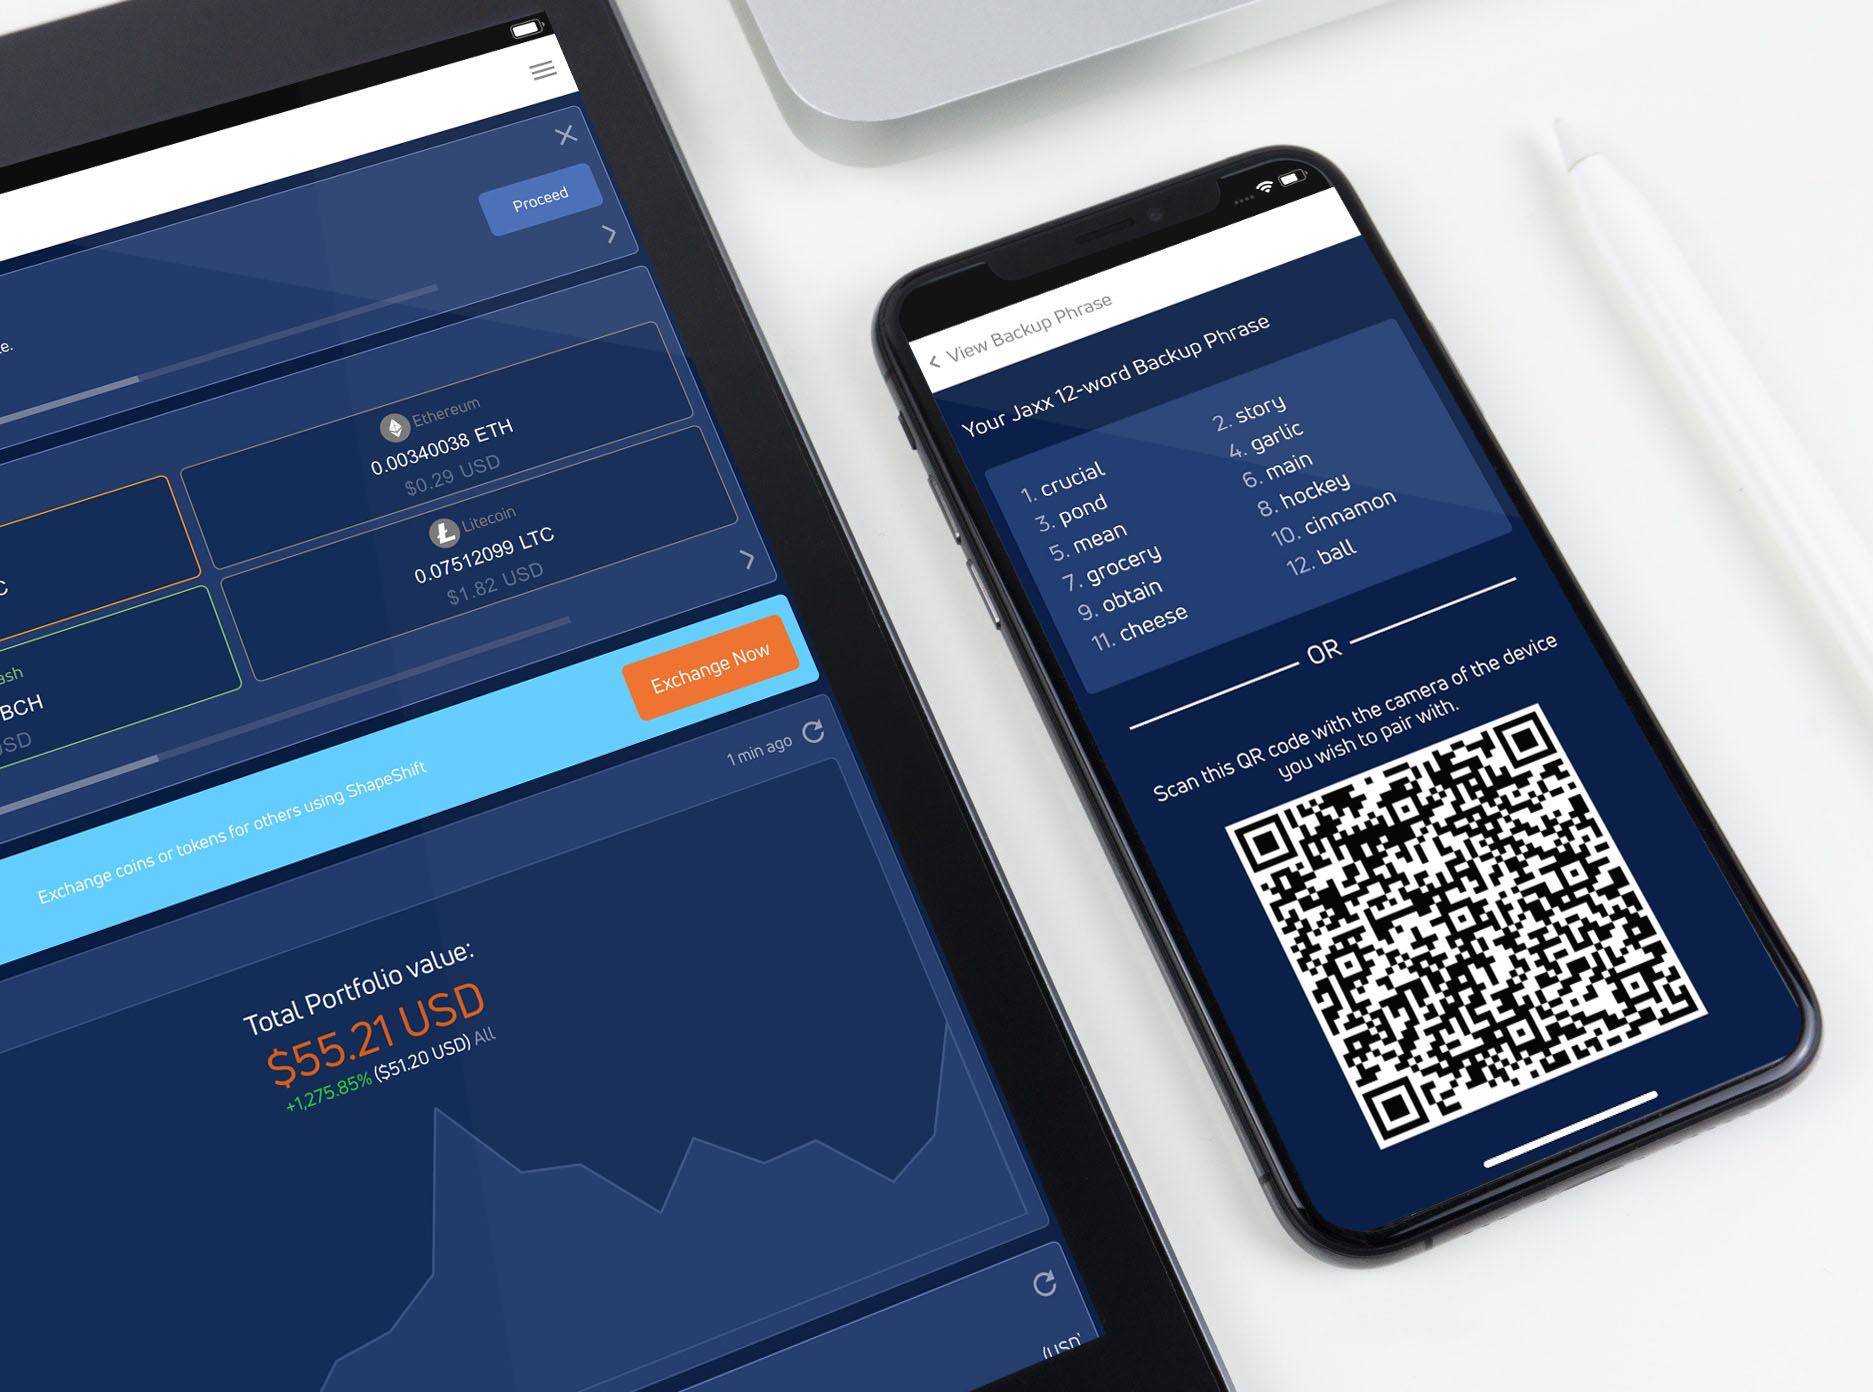
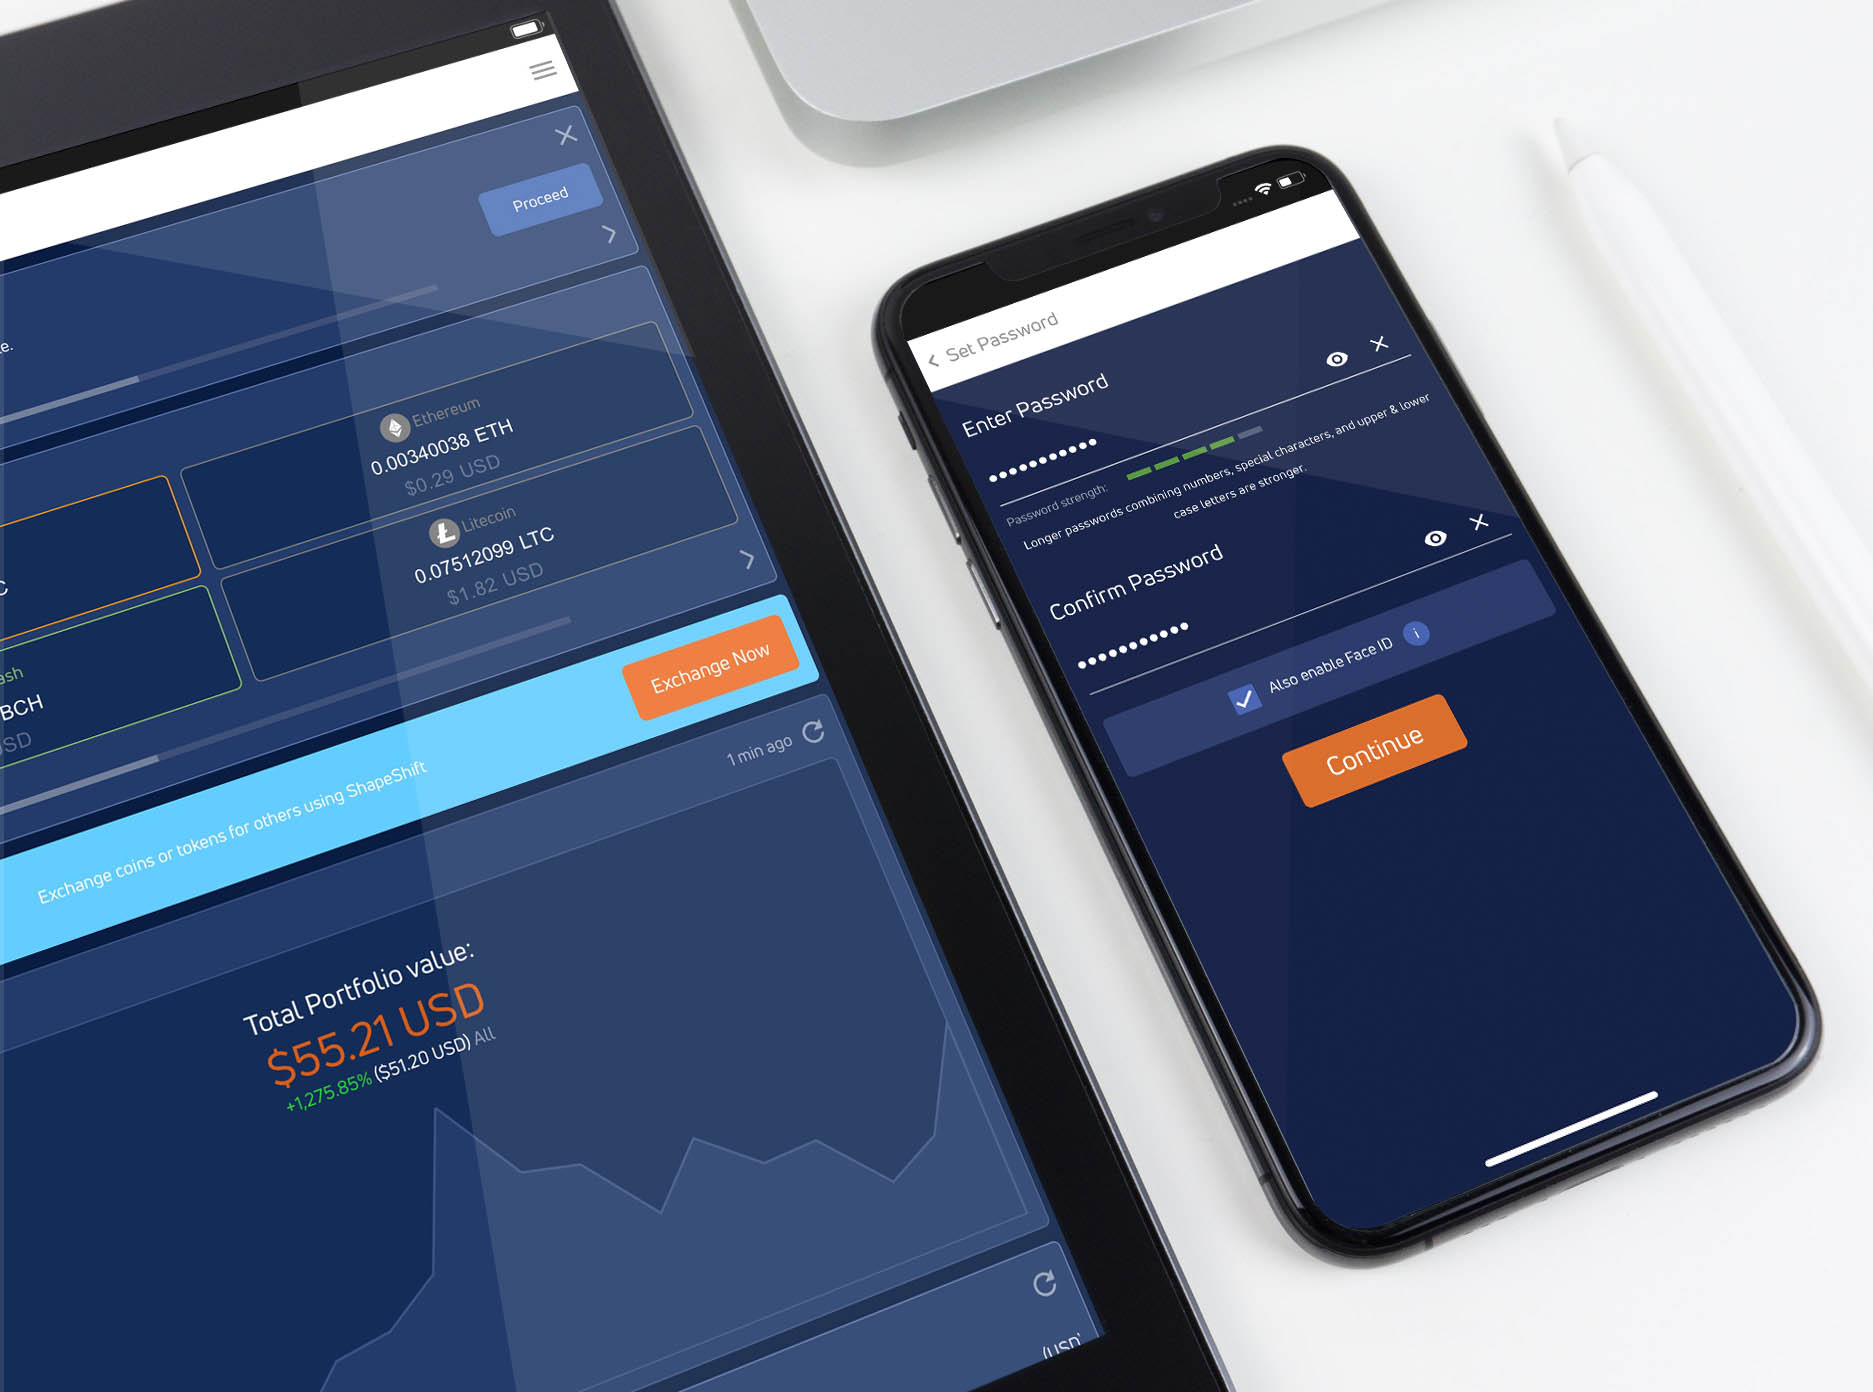
Updated security image screen from QR code/12-word backup to password for security

diff --git a/features.php b/features.php
@@ -47,7 +47,7 @@ include 'includes/header.php';
                     <p class="p-big py-3 up up-slow">Jaxx Liberty blends industry leading engineering with beautiful and intuitive user experience design.</p>
                 </div>
                 <div class="col-lg-4 d-flex flex-column justify-content-center align-items-center o-12 slide-up">
-                    <img class="feat-phone m-auto ds up" src="/assets/img/jaxx-feat-phone-case-home.png" alt="Jaxx Liberty blends industry leading engineering with beautiful and intuitive user experience design.">
+                    <img class="feat-phone m-auto up" src="/assets/img/jaxx-feat-phone-case-home.jpg" alt="Jaxx Liberty blends industry leading engineering with beautiful and intuitive user experience design.">
                 </div>
                <div class="offset-lg-2"></div>
             </div>
@@ -59,7 +59,7 @@ include 'includes/header.php';
             <div class="row d-flex min-500 bg-light pb-3 border-bottom stagger-up">
                <div class="offset-lg-2"></div>
                <div class="col-lg-4 d-flex flex-column justify-content-center align-items-start o-12 slide-up">
-                    <img class="feat-phone m-auto ds up" src="/assets/img/jaxx-feat-phone-case-port.png" alt="Check out your asset balance, track individual coins and tokens, and follow value changes over the last hour, day, week and month.">
+                    <img class="feat-phone m-auto up" src="/assets/img/jaxx-feat-phone-case-port.jpg" alt="Check out your asset balance, track individual coins and tokens, and follow value changes over the last hour, day, week and month.">
                 </div>
                 <div class="col-lg-4 banner-left px-5 pt-5 slide-up">
                     <h2 class="section-title py-3 up">View your portfolio.</h2>
@@ -81,7 +81,7 @@ include 'includes/header.php';
                     <p class="p-big py-3 up up-slow">Get daily blockchain headline news and updates from a range of trusted sources. All at your fingertips, in Jaxx Liberty's news module.</p>
                 </div>
                 <div class="col-lg-4 d-flex flex-column justify-content-center align-items-center o-12 slide-up">
-                    <img class="feat-phone m-auto ds up" src="/assets/img/jaxx-feat-phone-case-news.png" alt="Get daily blockchain headline news and updates from a range of trusted sources. All at your fingertips, in Jaxx Liberty's news module.">
+                    <img class="feat-phone m-auto up" src="/assets/img/jaxx-feat-phone-case-news.jpg" alt="Get daily blockchain headline news and updates from a range of trusted sources. All at your fingertips, in Jaxx Liberty's news module.">
                 </div>
                <div class="offset-lg-2"></div>
             </div>
@@ -93,7 +93,7 @@ include 'includes/header.php';
             <div class="row d-flex min-500 bg-light pb-3 border-bottom stagger-up">
                <div class="offset-lg-2"></div>
                <div class="col-lg-4 d-flex flex-column justify-content-center align-items-start o-12 slide-up">
-                    <img class="feat-phone m-auto ds up" src="/assets/img/jaxx-feat-phone-case-markets.png" alt="Follow the top 100 assets, compare price changes, see market caps, and follow trends.">
+                    <img class="feat-phone m-auto up" src="/assets/img/jaxx-feat-phone-case-markets.jpg" alt="Follow the top 100 assets, compare price changes, see market caps, and follow trends.">
                 </div>
                 <div class="col-lg-4 banner-left px-5 pt-5 slide-up">
                     <h2 class="section-title py-3 up">Track market data.</h2>
@@ -115,7 +115,7 @@ include 'includes/header.php';
                     <p class="p-big py-3 up up-slow">You can easily customize your Jaxx Liberty wallet module. Simply scroll through more than 85 coins and tokens, and toggle them on and off to add them to your home screen.</p>
                 </div>
                 <div class="col-lg-4 d-flex flex-column justify-content-center align-items-center o-12 slide-up">
-                    <img class="feat-phone m-auto ds up" src="/assets/img/jaxx-feat-phone-case-wallets.png" alt="Easily customize your Jaxx Liberty wallet module.">
+                    <img class="feat-phone m-auto up" src="/assets/img/jaxx-feat-phone-case-wallets.jpg" alt="Easily customize your Jaxx Liberty wallet module.">
                 </div>
                <div class="offset-lg-2"></div>
             </div>
@@ -127,7 +127,7 @@ include 'includes/header.php';
             <div class="row d-flex min-500 bg-light pb-3 border-bottom stagger-up">
                <div class="offset-lg-2"></div>
                <div class="col-lg-4 d-flex flex-column justify-content-center align-items-start o-12 slide-up">
-                    <img class="feat-phone m-auto ds up" src="/assets/img/jaxx-feat-phone-case-block.png" alt="Check balances and transaction data across multiple blockchains in Jaxx Liberty's easy-to-use block explorer.">
+                    <img class="feat-phone m-auto up" src="/assets/img/jaxx-feat-phone-case-block.jpg" alt="Check balances and transaction data across multiple blockchains in Jaxx Liberty's easy-to-use block explorer.">
                 </div>
                 <div class="col-lg-4 banner-left px-5 pt-5 slide-up">
                     <h2 class="section-title py-3 up">Search the blockchain.</h2>
@@ -149,7 +149,7 @@ include 'includes/header.php';
                     <p class="p-big py-3 up up-slow">Your private keys never leave your device, and with strong encryption protocols, you can enjoy peace of mind. We don’t have access to your backup phrase or private keys, we don't collect your personal information, and you don't need to create an account.</p>
                 </div>
                 <div class="col-lg-4 d-flex flex-column justify-content-center align-items-center o-12 slide-up">
-                    <img class="feat-phone m-auto ds up" src="/assets/img/jaxx-feat-phone-case-backup.png" alt="Your private keys never leave your device, and with strong encryption protocols, you can enjoy peace of mind.">
+                    <img class="feat-phone m-auto up" src="/assets/img/jaxx-feat-phone-case-password.jpg" alt="Your private keys never leave your device, and with strong encryption protocols, you can enjoy peace of mind.">
                 </div>
                <div class="offset-lg-2"></div>
             </div>
@@ -161,7 +161,7 @@ include 'includes/header.php';
             <div class="row d-flex min-500 bg-light pb-3 border-bottom stagger-up">
                <div class="offset-lg-2"></div>
                <div class="col-lg-4 d-flex flex-column justify-content-center align-items-start o-12 slide-up">
-                    <img class="feat-phone m-auto ds up" src="/assets/img/jaxx-feat-phone-case-shapeshift.png" alt="Exchange between assets with Jaxx Liberty's exchange module.">
+                    <img class="feat-phone m-auto up" src="/assets/img/jaxx-feat-phone-case-shapeshift.jpg" alt="Exchange between assets with Jaxx Liberty's exchange module.">
                 </div>
                 <div class="col-lg-4 banner-left px-5 pt-5 slide-up">
                     <h2 class="section-title py-3 up">Exchange between assets.</h2>
@@ -183,7 +183,7 @@ include 'includes/header.php';
                     <p class="p-big py-3 up up-low">Get free, 24/7 world-class support from our User Success Team, via email or social media.</p>
                 </div>
                 <div class="col-lg-4 d-flex flex-column justify-content-center align-items-center o-12 slide-up">
-                    <img class="feat-phone up" src="/assets/img/jaxx-feat-phone-case-support.png" alt="Get free, 24/7 world-class support from our User Success Team, via email or social media.">
+                    <img class="feat-phone up" src="/assets/img/jaxx-feat-phone-case-support.jpg" alt="Get free, 24/7 world-class support from our User Success Team, via email or social media.">
                 </div>
                <div class="offset-lg-2"></div>
             </div>
@@ -261,10 +261,10 @@ include 'includes/header.php';
         <!--download-->
        
         <section>
-            <div class="row d-flex min-700-lg bg-light p-5 stagger-up">
+            <div class="row d-flex min-700-lg bg-white p-5 stagger-up">
               <div class="offset-lg-2"></div>
                <div class="col-lg-8 d-flex flex-column justify-content-center align-items-center text-center p-4 o-12 up">
-                    <img class="w-75 ds up up-med" src="/assets/img/jaxx-macbook-air.png" alt="Take Jaxx Liberty wherever you go.">
+                    <img class="w-75 up up-med" src="/assets/img/jaxx-macbook-air.jpg" alt="Take Jaxx Liberty wherever you go.">
                     <h2 class="section-title pb-3 pt-5 slide-up">Wherever you are.</h2>
                     <hr class="hr-big border-0 bg-orange m-0 slide-up">
                     <p class="p-big pt-3 mb-0 slide-up">Jaxx Liberty is available for mobile, web, and desktop. Enjoy on iOS, Android, Mac OS X, Windows, Linux, and Google Chrome.</p>
